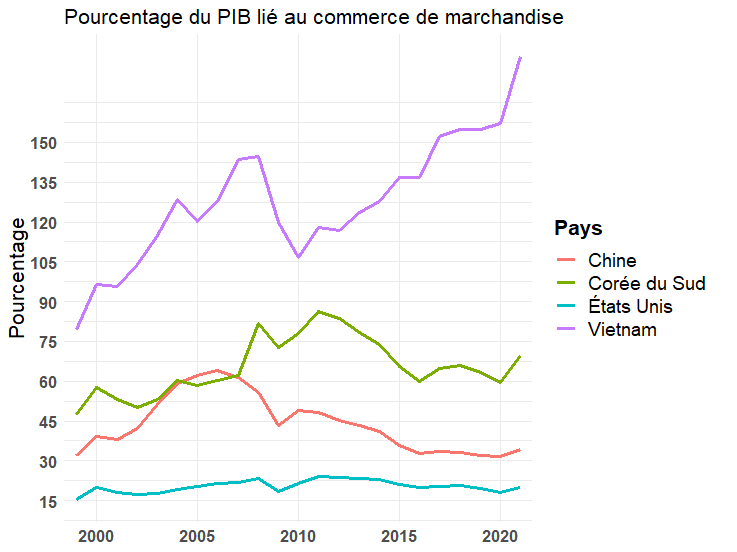
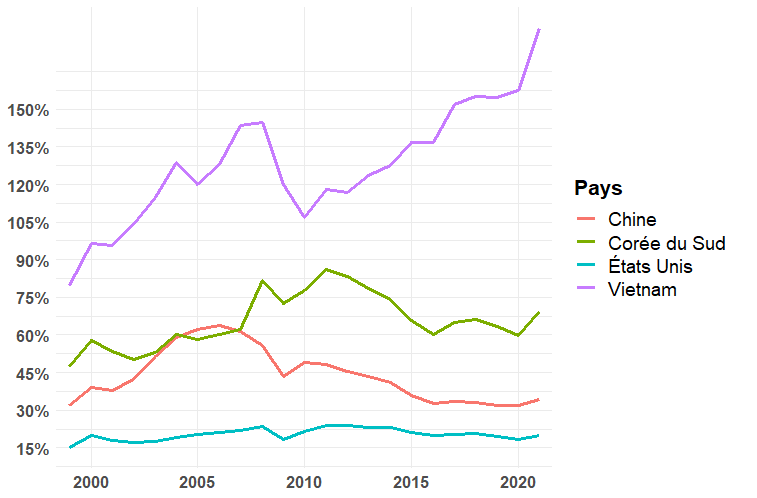
Commit final pour stats desc

diff --git a/PTG_PIB_Merc/Us_trade_perc.htm b/PTG_PIB_Merc/Us_trade_perc.htm
@@ -1,11 +1,11 @@
 
 <table style="text-align:center"><caption><strong>Pourcentage du PIB lié au commerce de marchandise</strong></caption>
 <tr><td colspan="3" style="border-bottom: 1px solid black"></td></tr><tr><td style="text-align:left">Année</td><td>Pays</td><td>Pourcentage</td></tr>
-<tr><td colspan="3" style="border-bottom: 1px solid black"></td></tr><tr><td style="text-align:left">2015</td><td>États Unis</td><td>20.97%</td></tr>
-<tr><td style="text-align:left">2016</td><td>États Unis</td><td>19.80%</td></tr>
-<tr><td style="text-align:left">2017</td><td>États Unis</td><td>20.30%</td></tr>
-<tr><td style="text-align:left">2018</td><td>États Unis</td><td>20.84%</td></tr>
-<tr><td style="text-align:left">2019</td><td>États Unis</td><td>19.69%</td></tr>
-<tr><td style="text-align:left">2020</td><td>États Unis</td><td>18.19%</td></tr>
-<tr><td style="text-align:left">2021</td><td>États Unis</td><td>20.11%</td></tr>
+<tr><td colspan="3" style="border-bottom: 1px solid black"></td></tr><tr><td style="text-align:left">2015</td><td>États Unis</td><td>20.97</td></tr>
+<tr><td style="text-align:left">2016</td><td>États Unis</td><td>19.8</td></tr>
+<tr><td style="text-align:left">2017</td><td>États Unis</td><td>20.3</td></tr>
+<tr><td style="text-align:left">2018</td><td>États Unis</td><td>20.84</td></tr>
+<tr><td style="text-align:left">2019</td><td>États Unis</td><td>19.69</td></tr>
+<tr><td style="text-align:left">2020</td><td>États Unis</td><td>18.19</td></tr>
+<tr><td style="text-align:left">2021</td><td>États Unis</td><td>20.11</td></tr>
 <tr><td colspan="3" style="border-bottom: 1px solid black"></td></tr></table>

diff --git a/PTG_PIB_Merc/viet_trade_perc.htm b/PTG_PIB_Merc/viet_trade_perc.htm
@@ -1,11 +1,11 @@
 
 <table style="text-align:center"><caption><strong>Pourcentage du PIB lié au commerce de marchandise</strong></caption>
 <tr><td colspan="3" style="border-bottom: 1px solid black"></td></tr><tr><td style="text-align:left">Année</td><td>Pays</td><td>Pourcentage</td></tr>
-<tr><td colspan="3" style="border-bottom: 1px solid black"></td></tr><tr><td style="text-align:left">2015</td><td>Vietnam</td><td>136.95%</td></tr>
-<tr><td style="text-align:left">2016</td><td>Vietnam</td><td>136.67%</td></tr>
-<tr><td style="text-align:left">2017</td><td>Vietnam</td><td>152.10%</td></tr>
-<tr><td style="text-align:left">2018</td><td>Vietnam</td><td>154.97%</td></tr>
-<tr><td style="text-align:left">2019</td><td>Vietnam</td><td>154.82%</td></tr>
-<tr><td style="text-align:left">2020</td><td>Vietnam</td><td>157.33%</td></tr>
-<tr><td style="text-align:left">2021</td><td>Vietnam</td><td>182.31%</td></tr>
+<tr><td colspan="3" style="border-bottom: 1px solid black"></td></tr><tr><td style="text-align:left">2015</td><td>Vietnam</td><td>136.95</td></tr>
+<tr><td style="text-align:left">2016</td><td>Vietnam</td><td>136.67</td></tr>
+<tr><td style="text-align:left">2017</td><td>Vietnam</td><td>152.1</td></tr>
+<tr><td style="text-align:left">2018</td><td>Vietnam</td><td>154.97</td></tr>
+<tr><td style="text-align:left">2019</td><td>Vietnam</td><td>154.82</td></tr>
+<tr><td style="text-align:left">2020</td><td>Vietnam</td><td>157.33</td></tr>
+<tr><td style="text-align:left">2021</td><td>Vietnam</td><td>182.31</td></tr>
 <tr><td colspan="3" style="border-bottom: 1px solid black"></td></tr></table>

diff --git a/PTG_PIB_Merc/Kor_trade_perc.htm b/PTG_PIB_Merc/Kor_trade_perc.htm
@@ -1,11 +1,11 @@
 
 <table style="text-align:center"><caption><strong>Pourcentage du PIB lié au commerce de marchandise</strong></caption>
 <tr><td colspan="3" style="border-bottom: 1px solid black"></td></tr><tr><td style="text-align:left">Année</td><td>Pays</td><td>Pourcentage</td></tr>
-<tr><td colspan="3" style="border-bottom: 1px solid black"></td></tr><tr><td style="text-align:left">2015</td><td>Corée du Sud</td><td>65.72%</td></tr>
-<tr><td style="text-align:left">2016</td><td>Corée du Sud</td><td>60.10%</td></tr>
+<tr><td colspan="3" style="border-bottom: 1px solid black"></td></tr><tr><td style="text-align:left">2015</td><td>Corée du Sud</td><td>65.72</td></tr>
+<tr><td style="text-align:left">2016</td><td>Corée du Sud</td><td>60.1</td></tr>
 <tr><td style="text-align:left">2017</td><td>Corée du Sud</td><td>64.79</td></tr>
-<tr><td style="text-align:left">2018</td><td>Corée du Sud</td><td>66.10%</td></tr>
-<tr><td style="text-align:left">2019</td><td>Corée du Sud</td><td>63.31%</td></tr>
-<tr><td style="text-align:left">2020</td><td>Corée du Sud</td><td>59.61%</td></tr>
-<tr><td style="text-align:left">2021</td><td>Corée du Sud</td><td>69.55%</td></tr>
+<tr><td style="text-align:left">2018</td><td>Corée du Sud</td><td>66.1</td></tr>
+<tr><td style="text-align:left">2019</td><td>Corée du Sud</td><td>63.31</td></tr>
+<tr><td style="text-align:left">2020</td><td>Corée du Sud</td><td>59.61</td></tr>
+<tr><td style="text-align:left">2021</td><td>Corée du Sud</td><td>69.55</td></tr>
 <tr><td colspan="3" style="border-bottom: 1px solid black"></td></tr></table>

diff --git a/PTG_PIB_Merc/CH_trade_perc.htm b/PTG_PIB_Merc/CH_trade_perc.htm
@@ -1,11 +1,11 @@
 
 <table style="text-align:center"><caption><strong>Pourcentage du PIB lié au commerce de marchandise</strong></caption>
 <tr><td colspan="3" style="border-bottom: 1px solid black"></td></tr><tr><td style="text-align:left">Année</td><td>Pays</td><td>Pourcentage</td></tr>
-<tr><td colspan="3" style="border-bottom: 1px solid black"></td></tr><tr><td style="text-align:left">2015</td><td>Chine</td><td>35.74%</td></tr>
-<tr><td style="text-align:left">2016</td><td>Chine</td><td>32.81%</td></tr>
-<tr><td style="text-align:left">2017</td><td>Chine</td><td>33.36%</td></tr>
-<tr><td style="text-align:left">2018</td><td>Chine</td><td>33.27%</td></tr>
-<tr><td style="text-align:left">2019</td><td>Chine</td><td>32.06%</td></tr>
-<tr><td style="text-align:left">2020</td><td>Chine</td><td>31.70%</td></tr>
-<tr><td style="text-align:left">2021</td><td>Chine</td><td>34.13%</td></tr>
+<tr><td colspan="3" style="border-bottom: 1px solid black"></td></tr><tr><td style="text-align:left">2015</td><td>Chine</td><td>35.74</td></tr>
+<tr><td style="text-align:left">2016</td><td>Chine</td><td>32.81</td></tr>
+<tr><td style="text-align:left">2017</td><td>Chine</td><td>33.36</td></tr>
+<tr><td style="text-align:left">2018</td><td>Chine</td><td>33.27</td></tr>
+<tr><td style="text-align:left">2019</td><td>Chine</td><td>32.06</td></tr>
+<tr><td style="text-align:left">2020</td><td>Chine</td><td>31.7</td></tr>
+<tr><td style="text-align:left">2021</td><td>Chine</td><td>34.13</td></tr>
 <tr><td colspan="3" style="border-bottom: 1px solid black"></td></tr></table>

diff --git a/Stats_desc_NetTrade/descTrade_4pays.htm b/Stats_desc_NetTrade/descTrade_4pays.htm
@@ -1,6 +1,5 @@
 
-<table style="text-align:center"><caption><strong>Statistiques descriptives : Exportations nettes en US entre 1990 et 2021</strong></caption>
-<tr><td colspan="9" style="border-bottom: 1px solid black"></td></tr><tr><td style="text-align:left">Pays</td><td>Moyenne</td><td>Écart_type</td><td>Min</td><td>Q1</td><td>Med</td><td>Q3</td><td>Max</td><td>Hist</td></tr>
+<table style="text-align:center"><tr><td colspan="9" style="border-bottom: 1px solid black"></td></tr><tr><td style="text-align:left">Pays</td><td>Moyenne</td><td>Écart_type</td><td>Min</td><td>Q1</td><td>Med</td><td>Q3</td><td>Max</td><td>Hist</td></tr>
 <tr><td colspan="9" style="border-bottom: 1px solid black"></td></tr><tr><td style="text-align:left">Chine</td><td>189.9B</td><td>126.3B</td><td>10.7B</td><td>69.5B</td><td>217.0B</td><td>245.6B</td><td>462.8B</td><td>▇▃▇▃▁</td></tr>
 <tr><td style="text-align:left">Corée du Sud</td><td>42.7B</td><td>33.1B</td><td>-3.2B</td><td>15.3B</td><td>34.1B</td><td>73.5B</td><td>105.6B</td><td>▇▅▂▆▂</td></tr>
 <tr><td style="text-align:left">Vietnam</td><td>1.5B</td><td>9.0B</td><td>-13.7B</td><td>-3.3B</td><td>-133.0M</td><td>6.8B</td><td>20.4B</td><td>▃▇▃▅▂</td></tr>

diff --git a/descTourisme_4pays.htm b/descTourisme_4pays.htm
@@ -1,0 +1,7 @@
+
+<table style="text-align:center"><caption><strong>Statistiques descriptives : Tourisme aux États-Unis entre 2012 et 2018</strong></caption>
+<tr><td colspan="9" style="border-bottom: 1px solid black"></td></tr><tr><td style="text-align:left">Pays</td><td>Moyenne</td><td>Écart_type</td><td>Min</td><td>Q1</td><td>Med</td><td>Q3</td><td>Max</td><td>Hist</td></tr>
+<tr><td colspan="9" style="border-bottom: 1px solid black"></td></tr><tr><td style="text-align:left">China</td><td>764570.71</td><td>199224.37</td><td>456220</td><td>626623.5</td><td>811348</td><td>934256</td><td>962668</td><td>▂▂▂▂▇</td></tr>
+<tr><td style="text-align:left">South Korea</td><td>571768.29</td><td>124227.91</td><td>426710</td><td>461762</td><td>581282</td><td>667300</td><td>736262</td><td>▇▁▂▂▅</td></tr>
+<tr><td style="text-align:left">Vietnam</td><td>29258.14</td><td>8405.76</td><td>16639</td><td>23285.5</td><td>31963</td><td>35590.5</td><td>38453</td><td>▅▁▂▂▇</td></tr>
+<tr><td colspan="9" style="border-bottom: 1px solid black"></td></tr></table>

diff --git a/PTG_PIB_Merc/desc_4pays.html b/PTG_PIB_Merc/desc_4pays.html
@@ -1,5 +1,5 @@
 
-<table style="text-align:center"><caption><strong>Statistiques descriptives : Pourcentage du ratio du commerce de marchandise/PIB</strong></caption>
+<table style="text-align:center"><caption><strong>Statistiques descriptives : Pourcentage du ratio du commerce de marchandise/PIB entre 1990 et 2021</strong></caption>
 <tr><td colspan="9" style="border-bottom: 1px solid black"></td></tr><tr><td style="text-align:left">Pays</td><td>Moyenne</td><td>Écart_type</td><td>Min</td><td>Q1</td><td>Med</td><td>Q3</td><td>Max</td><td>Hist</td></tr>
 <tr><td colspan="9" style="border-bottom: 1px solid black"></td></tr><tr><td style="text-align:left">Chine</td><td>43.84</td><td>10.7</td><td>31.7</td><td>33.75</td><td>42.21</td><td>50.06</td><td>63.97</td><td>▇▅▂▂▃</td></tr>
 <tr><td style="text-align:left">Corée du Sud</td><td>65.51</td><td>10.85</td><td>47.59</td><td>58.99</td><td>63.31</td><td>73.38</td><td>86.15</td><td>▅▇▆▃▅</td></tr>
